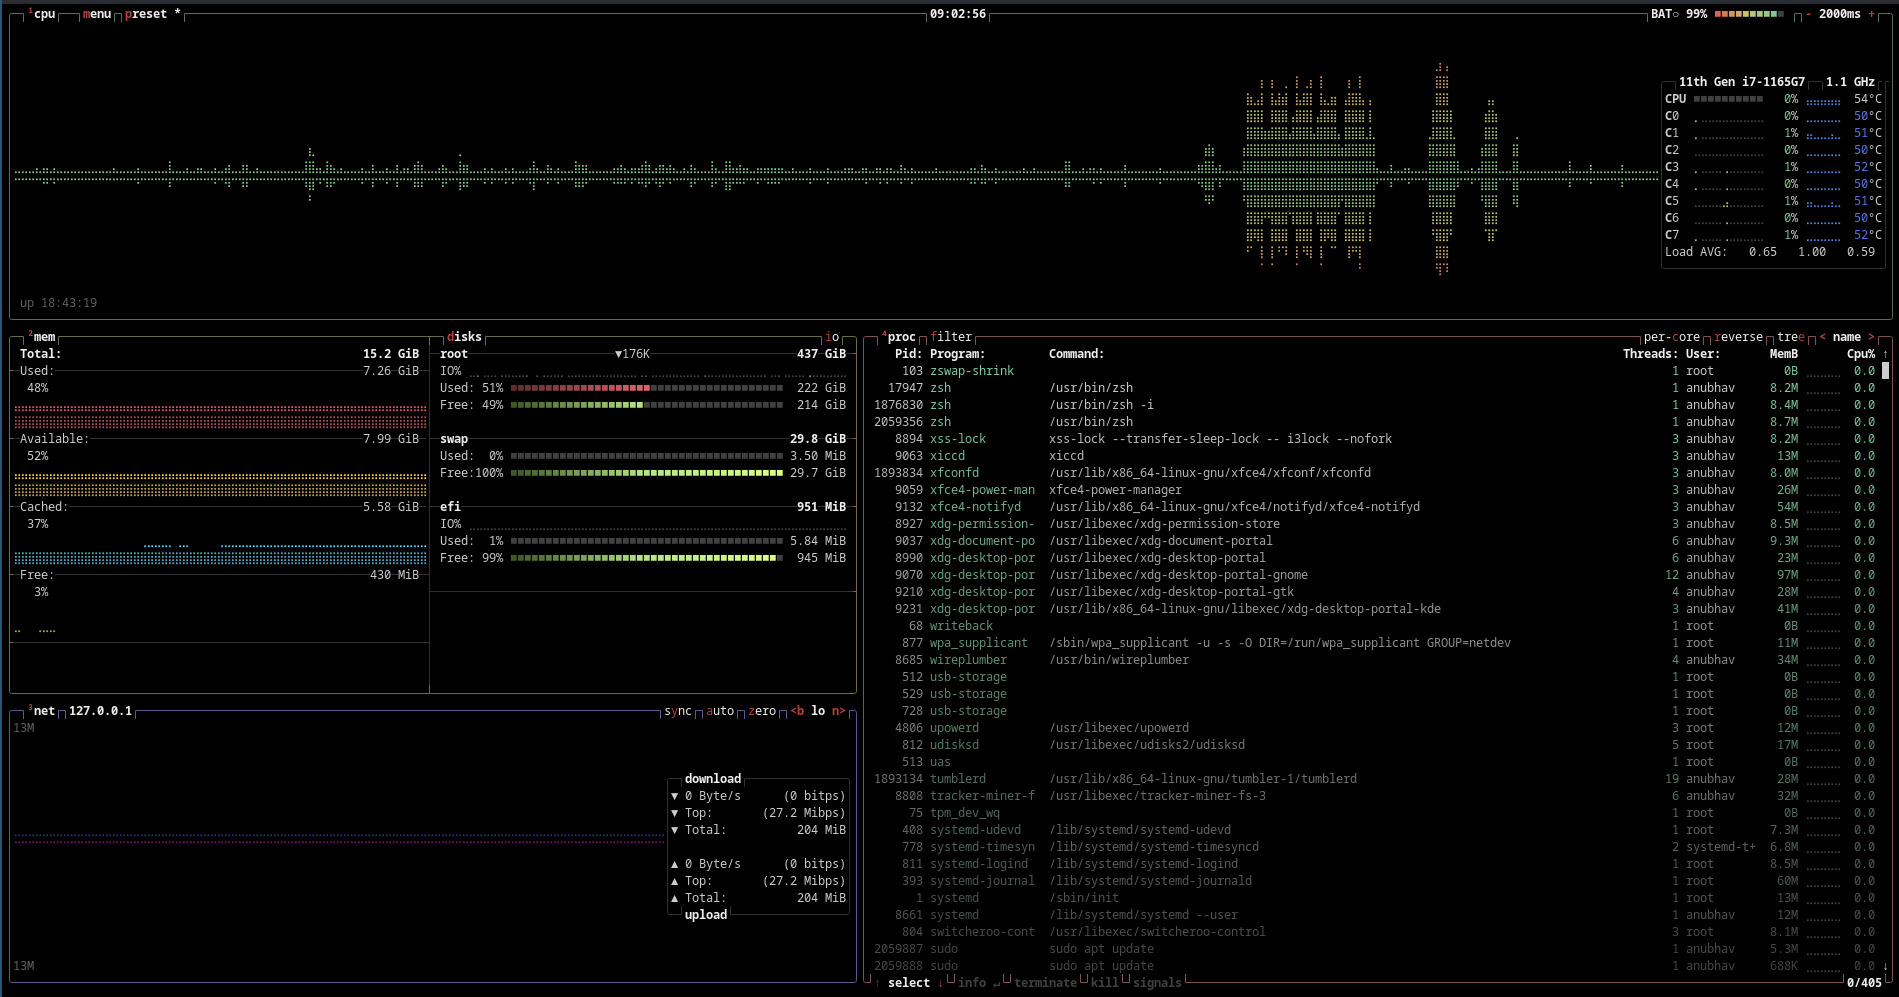
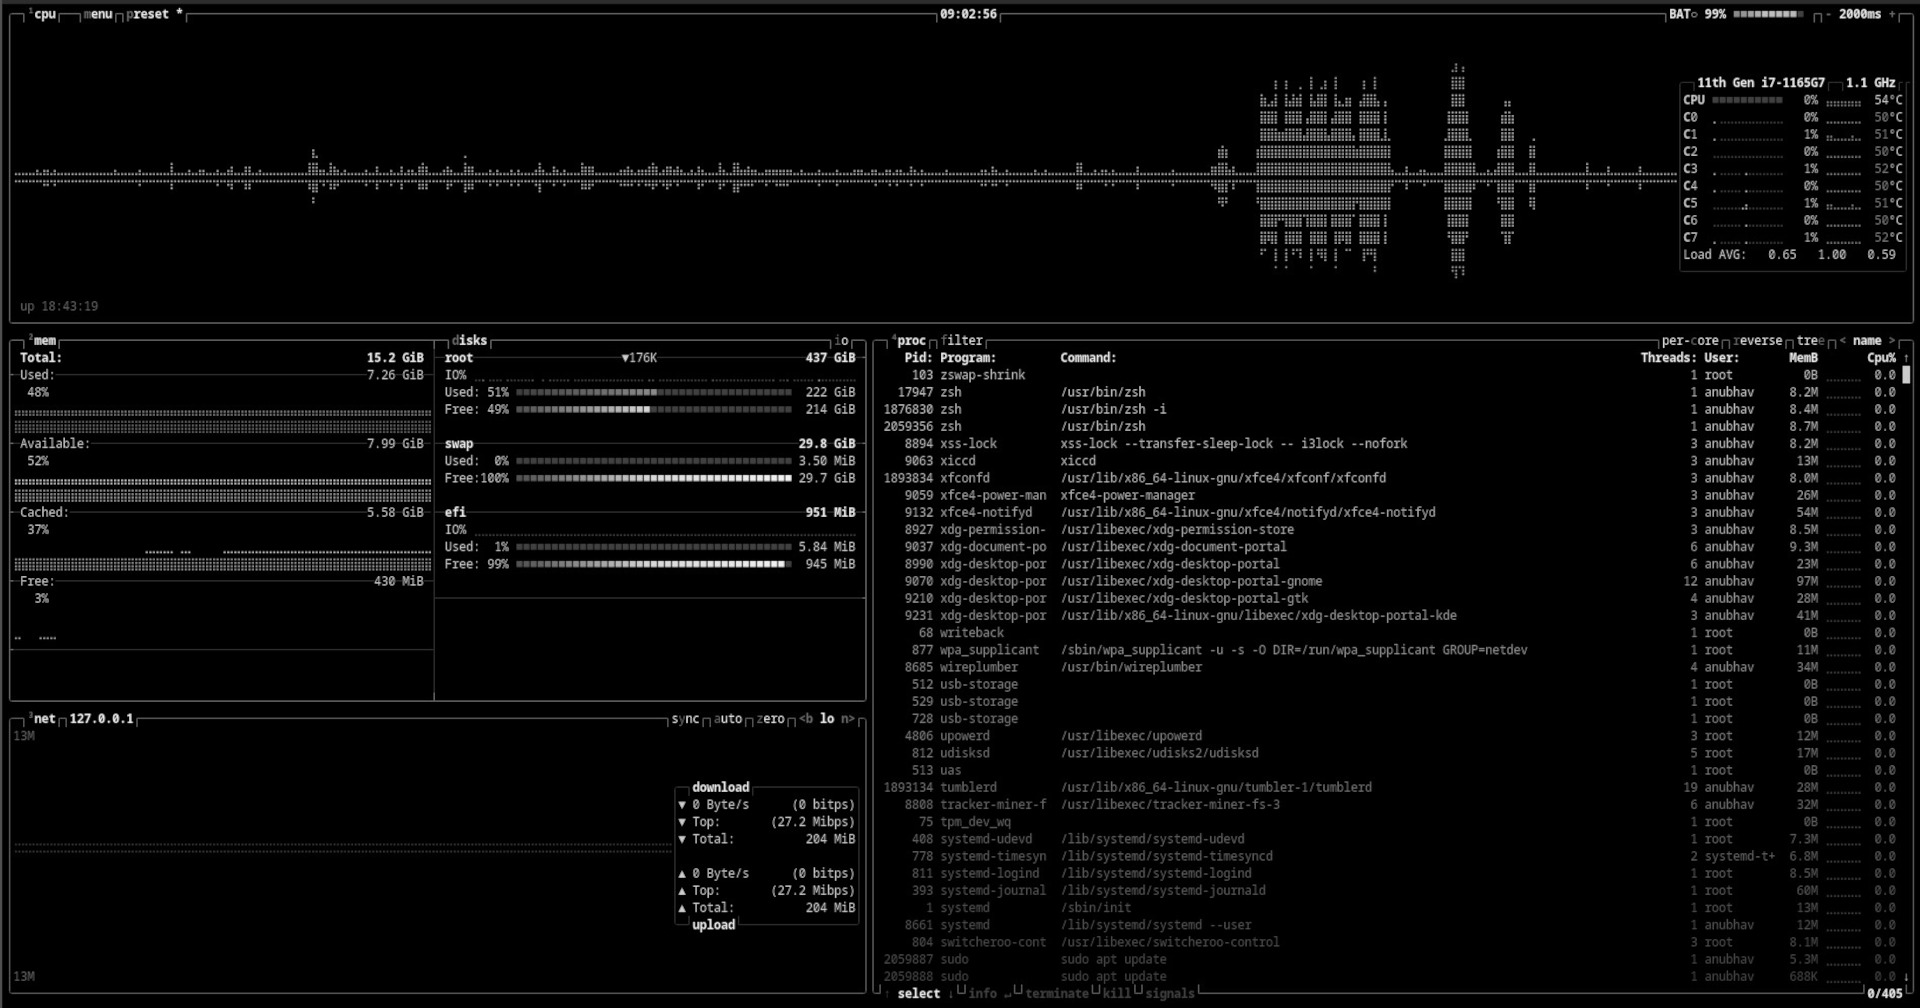
neutralize colors in images

diff --git a/src/App.css b/src/App.css
@@ -150,10 +150,10 @@
 .logo {
     display: block;
     height: 32px;
-    margin: 1px;
-    padding: 1px;
+    margin: 2px;
+    padding: 2px;
     /* margin: 0.5rem; */
-    filter: grayscale(80%);
+    filter: grayscale(100%);
 }
 
 .type\:massive {
@@ -183,7 +183,7 @@
     }
 
     &.one {
-        background-image: url("assets/one.svg");
+        background-image: url("assets/one.jpg");
     }
     &.web {
         background-image: url("assets/web.jpg");
